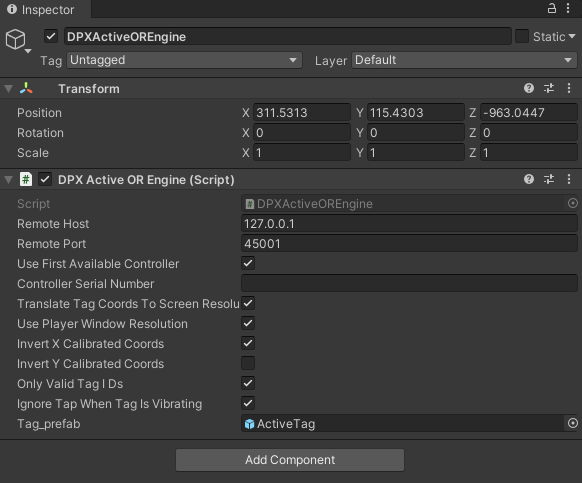
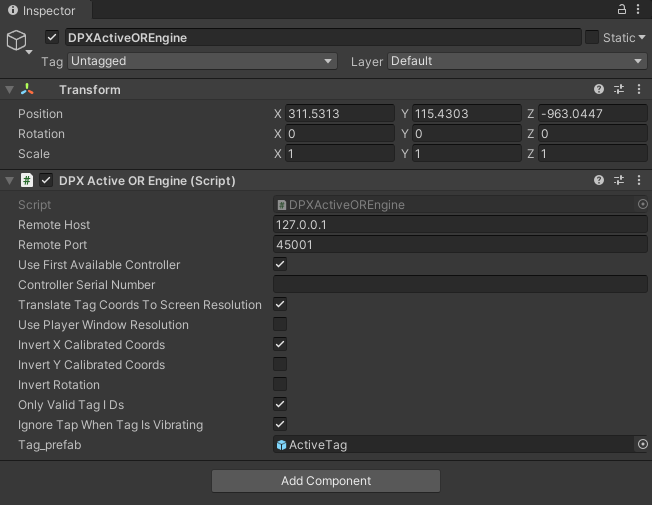
Updated CSharp (Unity framework) documentation

diff --git a/CSharp (Unity framework)/Documentation/DPXActiveOR_library.md b/CSharp (Unity framework)/Documentation/DPXActiveOR_library.md
@@ -18,6 +18,7 @@ To enable DPXActiveOR in an Unity application:
     - controller serial number: double check the connection with the right controller, by comparing it's serial number with the one defined here. Empty by default, so it can connects with the first controller available.
     - Invert X Calibrated Coords: depending on the target system orientation, display alignment, etc, this flag may help to configure the right orientation
     - Invert Y Calibrated Coords: depending on the target system orientation, display alignment, etc, this flag may help to configure the right orientation
+    - Invert Rotation: depending on the target system orientation, display alignment, etc, this flag may help to configure the right rotation direction (CW or CCW)
     - Only Valid Tag ID's: if a tag is placed on top of the sensor without being paired, activated (for instance, it may not be fully awake, or the pairing process is still going), or has the battery drained (and, thus, not operating/communicating), it can be reported as an "anonymous tag" (with an high value ID, greater than 65535). This flag disable/ignores the reports of such tags to the application.
     - Ignore Tap When Tag is Vibrating: As taps are detected by the internal accelerometer, the haptics vibration motor may trigger it and report a false tap. This flag helps to prevent this, by disabling the tap reports during vibration activity.
     - Tag_prefab: a prefab can be linked here to automate the tag object creation. Otherwise, tag object creation must be handled on tag report event/delegate handlers

diff --git a/CSharp (Unity framework)/Documentation/DPXActiveOR_DPXActiveOREngine.md b/CSharp (Unity framework)/Documentation/DPXActiveOR_DPXActiveOREngine.md
@@ -43,6 +43,10 @@ So, if any object class in the app wants to receive tag information/updates, it 
 
     public bool invertYCalibratedCoords = false;
 
+  **invertRotation** - Depending on app necessities, the reported tag rotation angle can be inverted by setting this property to true.
+  
+    public bool invertRotation = false;
+
 - **onlyValidTagIDs** - if a tag is detected on the sensor, but the BLE communication is not established (tag not paired and/or exiting sleep state), it is reported with an invalid ID (greater than 65535). These tag reports can be filtered out if this property is set to True (default). 
     public bool onlyValidTagIDs = true;
 
@@ -133,7 +137,7 @@ Parameters:
     public bool SetJoystickMode(int tag_id)
 ```
 - **SetNormalMode**
-- 
+
 Function to set normal operation  mode. 
 
 ```
